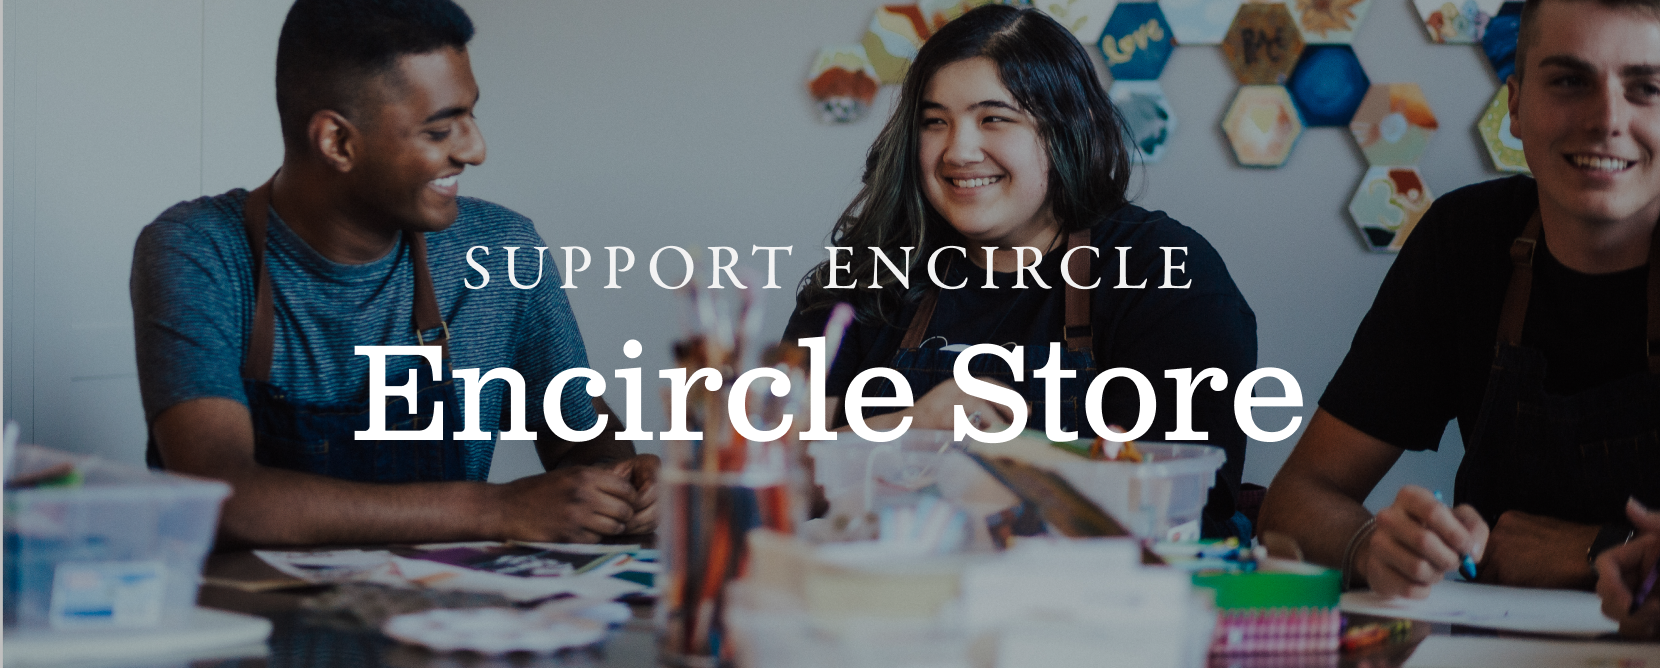
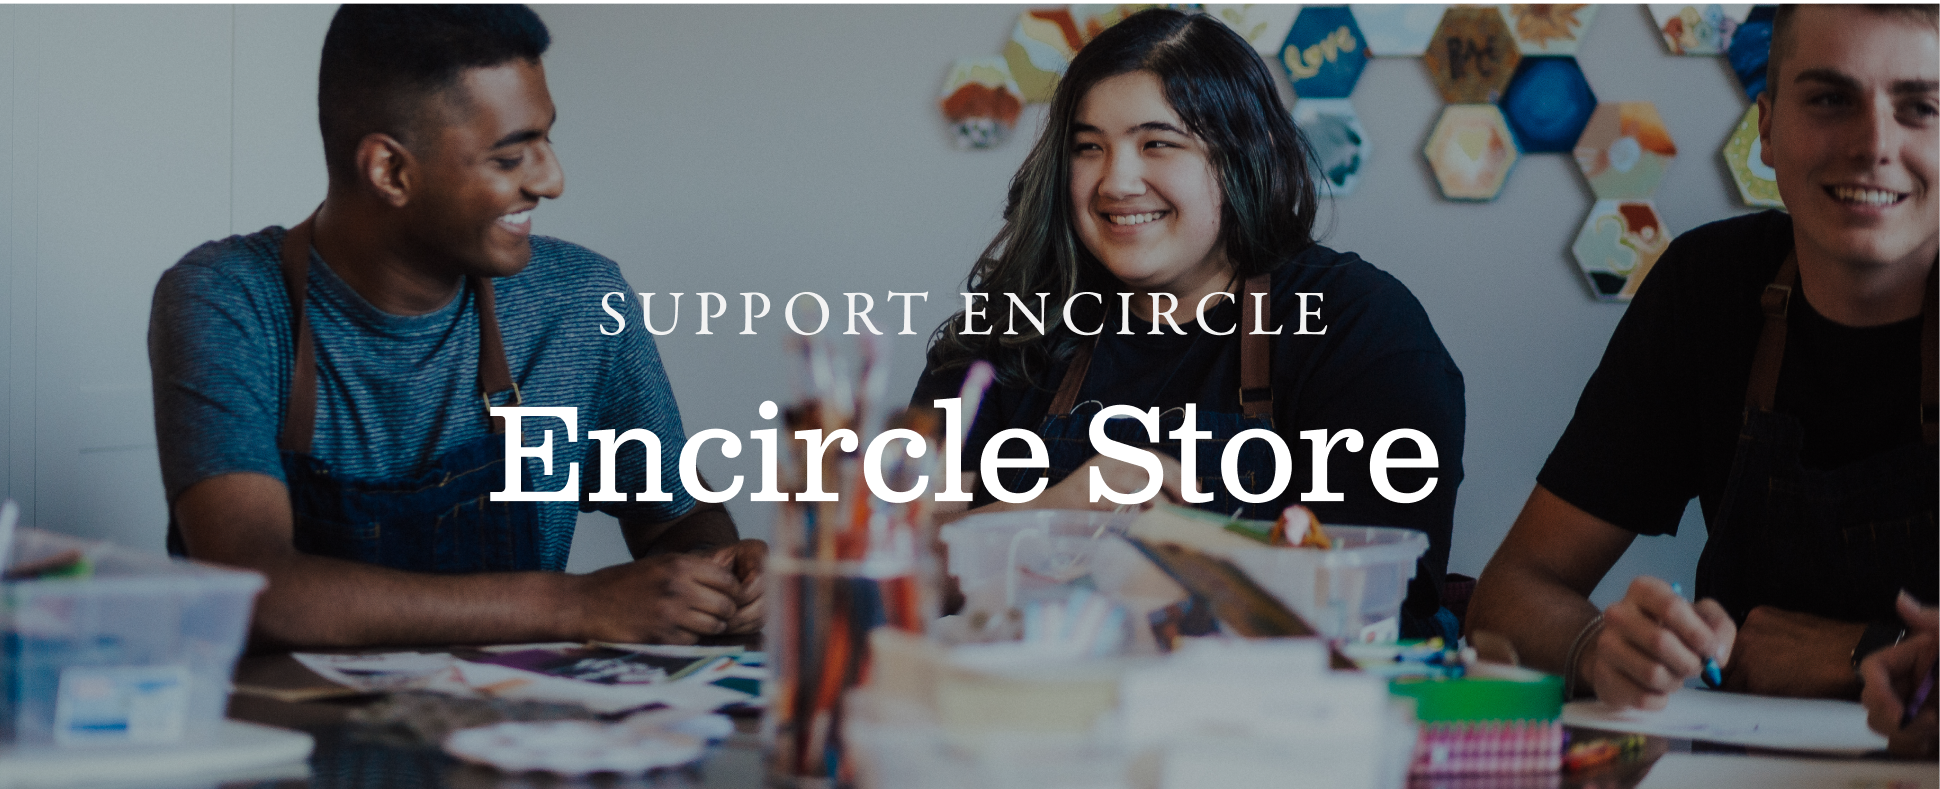
Continued styling of header image

diff --git a/screens/ShopScreen.js b/screens/ShopScreen.js
@@ -10,6 +10,7 @@ import {
   SafeAreaView,
   Platform,
   Button,
+  ImageBackground,
 } from "react-native";
 import {
   Collapse,
@@ -107,10 +108,13 @@ const ShopScreen = () => {
 
   return (
     <SafeAreaView style={{ flex: 1 }}>
-      <Image
-        source={require("../assets/storeHeader.png")}
-        style={styles.headerImage}
-      />
+      <View style={styles.headerContainer}>
+        <ImageBackground
+          source={require("../assets/storeHeader.png")}
+          style={styles.headerImage}
+        />
+      </View>
+
       <View style={styles.filter}>
         <Collapse onToggle={changeOpen}>
           <CollapseHeader>
@@ -177,9 +181,14 @@ export default ShopScreen;
 
 const styles = StyleSheet.create({
   headerImage: {
-    resizeMode: "contain",
+    resizeMode: "cover",
+    justifyContent: "center",
+    height: 197,
     width: "100%",
-    height: 167,
+  },
+  headerContainer: {
+    width: "100%",
+    top: 0,
   },
   filter: {},
   items: {},
